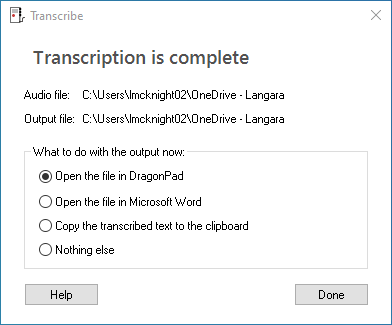
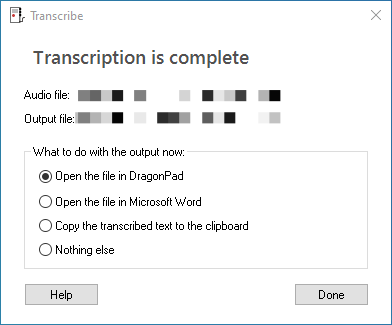
fixes

Changed region(s): [[0.1837, 0.2769, 0.7347, 0.4]]

diff --git a/guides/text-to-speech-tools.md b/guides/text-to-speech-tools.md
@@ -38,7 +38,7 @@ ReadSpeaker is text to speech software. If your school has it, you may see **web
 <details id="webreader" markdown="block">
 <summary>webReader</summary>
 
-If your school has ReadSpeaker, a Listen button appears on Brightspace Topic, Discussion, and Quiz pages.:
+If your school has ReadSpeaker, a Listen button appears on Brightspace Topic, Discussion, and Quiz pages:
 ![The ReadSpeaker Listen button, with a menu button on its left and a play button on its right.](../assets/images/text-to-speech-tools/webreader-listen-button.png) 
 
 Activating the **Listen** button will reveal the Player:
@@ -126,7 +126,7 @@ Select **Listen**, or highlight text and choose **Listen**, to start reading.
 Select **Text Mode** to see a simplified version of the document.
 
 Select **Layout Mode** to return to the original view of the document.
-<img src="../assets/images/text-to-speech-tools/docreader-text-mode.png" alt=""
+<img src="../assets/images/text-to-speech-tools/docreader-text-mode.png" alt="">
 
 Select **Expand Toolbar** for more options, or **Collapse Toolbar** to hide them.
 <img src="../assets/images/text-to-speech-tools/docreader-expanded-toolbar.png" alt="">

diff --git a/about/using-this-resource.md b/about/using-this-resource.md
@@ -79,7 +79,7 @@ On short screens, or when the page is zoomed in, these buttons appear at the end
 
 Many pages group instructions into collapsed sections, one for each tool or topic, to keep pages short. Select a section’s title to expand or collapse it. With a keyboard, move focus to the title and press <kbd>Enter</kbd>. Screen readers announce whether each section is expanded or collapsed.
 
-Boxes titled "At Langara:" apply only to Langara. See [Who these guides are for](../index.md#availability-labels).
+Boxes titled "At Langara" apply only to Langara. See [Who these guides are for](../index.md#availability-labels).
 
 ## Search
 

diff --git a/index.md b/index.md
@@ -21,7 +21,7 @@ These guides were written for Langara College students and staff, and anyone is 
 
 Each tool has labels that show how to get it:
 
-{% include availability.html tags="built-in free free-plan paid institution langara" %}
+{% include availability.html tags="built-in free free-plan paid langara" %}
 
 Select a label to reveal more information about availability.
 

diff --git a/guides/voice-control.md b/guides/voice-control.md
@@ -17,7 +17,7 @@ Voice control lets you operate a computer or phone with your voice: open apps, c
 
 ## Dragon
 
-{% include availability.html tags="lanagra paid" %}
+{% include availability.html tags="langara paid" %}
 
 {: .langara}
 Langara has a limited number of Dragon licences. Contact Accessibility Services for information.
